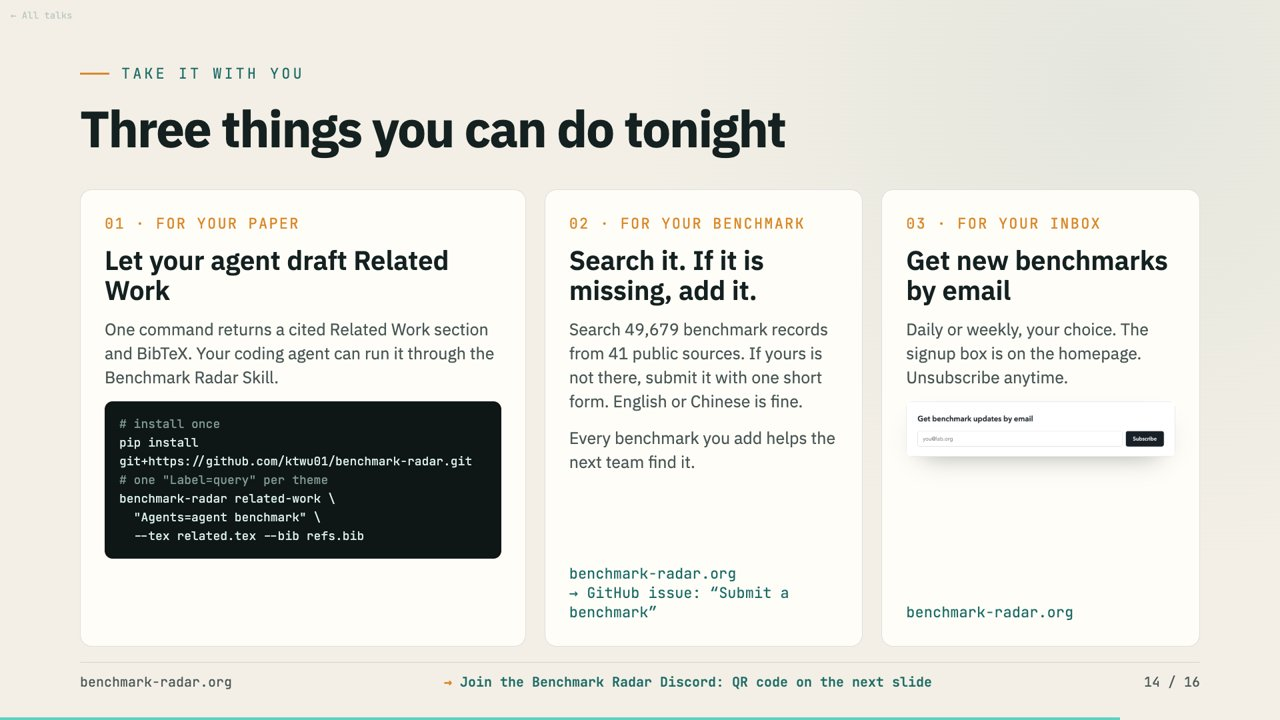
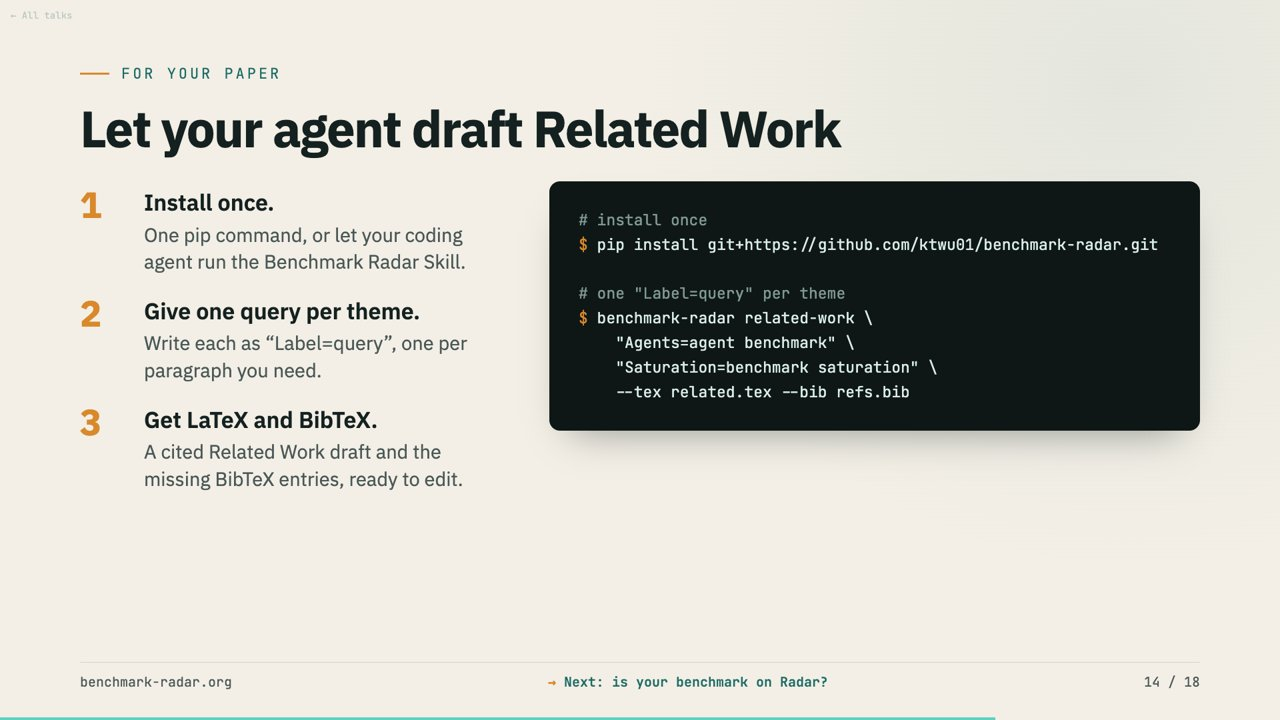
Split the three talk CTAs into one slide each
kw asked for one ask per slide. Slides 14 to 16 now cover the
related-work CLI, search-and-add, and email signup, each with steps on
the left and a code block or screenshot on the right. The search slide
uses a screenshot of the live search for "agent".

Related to #1258

diff --git a/site/talks/cohere-labs-2026/index.html b/site/talks/cohere-labs-2026/index.html
@@ -214,16 +214,12 @@ body.export .progress { display: none; }
 .footer .cta::before { content: '→ '; color: var(--amber); }
 .footer .cta code { font-family: var(--font-mono); background: var(--paper-2); padding: 2px 8px; border-radius: 6px; }
 
-/* TAKE IT WITH YOU: three cards, one action each */
-.cta-grid { display: grid; grid-template-columns: 1.4fr 1fr 1fr; gap: 28px; margin-top: 52px; flex: 1; min-height: 0; }
-.cta-card { background: #fffdf8; border: 1px solid var(--line); border-radius: 18px; padding: 36px; display: flex; flex-direction: column; gap: 18px; }
-.cta-card .k { font-family: var(--font-mono); font-size: 22px; color: var(--amber); letter-spacing: 0.1em; text-transform: uppercase; }
-.cta-card h3 { font-family: var(--font-display); font-size: 40px; font-weight: 600; line-height: 1.12; }
-.cta-card p { font-size: 25px; line-height: 1.45; color: var(--ink-soft); }
-.cta-card pre { font-family: var(--font-mono); font-size: 18px; line-height: 1.55; background: var(--panel); color: #d8ece8; border-radius: 12px; padding: 20px 22px; white-space: pre-wrap; word-break: break-word; }
-.cta-card pre .c { color: #7f9995; }
-.cta-card .url { font-family: var(--font-mono); font-size: 22px; color: var(--teal); margin-top: auto; }
-.cta-card img { display: block; width: 100%; height: auto; max-height: none; border-radius: 10px; box-shadow: 0 18px 40px -24px rgba(20,33,32,0.5); }
+/* ONE ASK PER SLIDE: text left, proof right */
+.ask .steps { margin-top: 8px; align-content: start; }
+.ask .url { font-family: var(--font-mono); font-size: 28px; color: var(--teal); margin-top: 40px; }
+.code { background: var(--panel); color: #d8ece8; border-radius: 16px; padding: 40px 44px; font-family: var(--font-mono); font-size: 23px; line-height: 1.6; white-space: pre-wrap; word-break: break-word; box-shadow: 0 30px 60px -30px rgba(20,33,32,0.45); align-self: start; }
+.code .c { color: #7f9995; }
+.code .p { color: var(--amber); }
 
 /* QR CODES: white tile so phones can scan from a projector */
 .qr-row { display: flex; gap: 36px; }
@@ -504,44 +500,74 @@ body.export .all-talks { display: none; }
   <aside class="notes">Four directions. The audit layer is the one with the most leverage, and it depends on people like June Kim publishing audits. Interop: we would rather feed shared efforts than build a silo.</aside>
 </section>
 
-<!-- === 14. TAKE IT WITH YOU === -->
-<section class="slide" data-title="Take it with you">
+<!-- === 14. ASK 1: RELATED WORK FROM THE CLI === -->
+<section class="slide" data-title="Ask 1: Related Work">
   <div class="frame">
-    <div class="kicker reveal">Take it with you</div>
-    <h2 class="reveal">Three things you can do tonight</h2>
-    <div class="cta-grid">
-      <div class="cta-card reveal">
-        <div class="k">01 · For your paper</div>
-        <h3>Let your agent draft Related Work</h3>
-        <p>One command returns a cited Related Work section and BibTeX. Your coding agent can run it through the Benchmark Radar Skill.</p>
-<pre><span class="c"># install once</span>
-pip install git+https://github.com/ktwu01/benchmark-radar.git
+    <div class="kicker reveal">For your paper</div>
+    <h2 class="reveal">Let your agent draft Related Work</h2>
+    <div class="split ask">
+      <ul class="steps reveal">
+        <li><div><b>Install once.</b>One pip command, or let your coding agent run the Benchmark Radar Skill.</div></li>
+        <li><div><b>Give one query per theme.</b>Write each as “Label=query”, one per paragraph you need.</div></li>
+        <li><div><b>Get LaTeX and BibTeX.</b>A cited Related Work draft and the missing BibTeX entries, ready to edit.</div></li>
+      </ul>
+<pre class="code reveal"><span class="c"># install once</span>
+<span class="p">$</span> pip install git+https://github.com/ktwu01/benchmark-radar.git
+
 <span class="c"># one "Label=query" per theme</span>
-benchmark-radar related-work \
-  "Agents=agent benchmark" \
-  --tex related.tex --bib refs.bib</pre>
-      </div>
-      <div class="cta-card reveal">
-        <div class="k">02 · For your benchmark</div>
-        <h3>Search it. If it is missing, add it.</h3>
-        <p>Search 49,679 benchmark records from 41 public sources. If yours is not there, submit it with one short form. English or Chinese is fine.</p>
-        <p>Every benchmark you add helps the next team find it.</p>
-        <div class="url">benchmark-radar.org<br>→ GitHub issue: “Submit a benchmark”</div>
-      </div>
-      <div class="cta-card reveal">
-        <div class="k">03 · For your inbox</div>
-        <h3>Get new benchmarks by email</h3>
-        <p>Daily or weekly, your choice. The signup box is on the homepage. Unsubscribe anytime.</p>
-        <img src="assets/email-signup.png" alt="Email signup box on the benchmark-radar.org homepage: Get benchmark updates by email, an email field, and a Subscribe button">
+<span class="p">$</span> benchmark-radar related-work \
+    "Agents=agent benchmark" \
+    "Saturation=benchmark saturation" \
+    --tex related.tex --bib refs.bib</pre>
+    </div>
+  </div>
+  <div class="footer"><span>benchmark-radar.org</span><span class="cta">Next: is your benchmark on Radar?</span><span class="pg"></span></div>
+  <aside class="notes">First ask, for anyone writing a paper. One command gives your agent a cited Related Work draft and the BibTeX to go with it. It searches the Radar catalog plus arXiv, Hugging Face Papers, Semantic Scholar, OpenAlex, and Crossref. Read every entry before you keep it.</aside>
+</section>
+
+<!-- === 15. ASK 2: SEARCH AND ADD A BENCHMARK === -->
+<section class="slide" data-title="Ask 2: Add your benchmark">
+  <div class="frame">
+    <div class="kicker reveal">For your benchmark</div>
+    <h2 class="reveal">Search for it. If it is missing, add it.</h2>
+    <div class="split ask">
+      <div class="reveal">
+        <ul class="steps">
+          <li><div><b>Search.</b>49,679 benchmark records from 41 public sources, one search box.</div></li>
+          <li><div><b>Not there?</b>Open the “Submit a benchmark” form on GitHub. English or Chinese is fine.</div></li>
+          <li><div><b>Help the next team.</b>Every benchmark you add is one more that others can find.</div></li>
+        </ul>
         <div class="url">benchmark-radar.org</div>
       </div>
+      <div class="shot reveal"><img src="assets/search-agent.png" alt="Benchmark Radar search for “agent”, showing 1,034 matching benchmark records"></div>
+    </div>
+  </div>
+  <div class="footer"><span>benchmark-radar.org</span><span class="cta">Next: new benchmarks in your inbox</span><span class="pg"></span></div>
+  <aside class="notes">Second ask. Search for the benchmark you built or the one you rely on. If Radar missed it, the form takes two minutes, and the next team will find it.</aside>
+</section>
+
+<!-- === 16. ASK 3: EMAIL === -->
+<section class="slide" data-title="Ask 3: Email">
+  <div class="frame">
+    <div class="kicker reveal">For your inbox</div>
+    <h2 class="reveal">Get new benchmarks by email</h2>
+    <div class="split ask">
+      <div class="reveal">
+        <ul class="steps">
+          <li><div><b>Open the homepage.</b>The signup box sits next to the search results.</div></li>
+          <li><div><b>Pick daily or weekly.</b>Daily brings the latest each day; weekly arrives every Monday.</div></li>
+          <li><div><b>Leave anytime.</b>Every email has an unsubscribe link.</div></li>
+        </ul>
+        <div class="url">benchmark-radar.org</div>
+      </div>
+      <div class="shot reveal" style="align-self:center"><img src="assets/email-signup.png" alt="Email signup box on the benchmark-radar.org homepage: Get benchmark updates by email, an email field, and a Subscribe button"></div>
     </div>
   </div>
   <div class="footer"><span>benchmark-radar.org</span><span class="cta">Join the Benchmark Radar Discord: QR code on the next slide</span><span class="pg"></span></div>
-  <aside class="notes">Three asks that help the people in the room, not just the project. One: if you are writing a paper, the related-work command gives your agent a cited draft and BibTeX in one run. Two: search for your own benchmark; if Radar missed it, the form takes two minutes, and the next team will find it. Three: the email brings new benchmarks to you, daily or weekly.</aside>
+  <aside class="notes">Third ask. If you want to keep up without checking the site, the email brings new benchmarks to you, daily or weekly.</aside>
 </section>
 
-<!-- === 15. GET INVOLVED === -->
+<!-- === 17. GET INVOLVED === -->
 <section class="slide" data-title="Get involved">
   <div class="frame">
     <div class="kicker reveal">Join in</div>
@@ -564,7 +590,7 @@ benchmark-radar related-work \
   <aside class="notes">Concrete asks. The audit ask is new: if your team rechecks a benchmark, publish it and Radar will link it.</aside>
 </section>
 
-<!-- === 16. Q&A + ACKNOWLEDGMENT === -->
+<!-- === 18. Q&A + ACKNOWLEDGMENT === -->
 <section class="slide dark" data-title="Questions">
   <div class="frame">
     <div class="kicker reveal">Q&amp;A</div>

diff --git a/site/talks/cohere-labs-2026/slides.md b/site/talks/cohere-labs-2026/slides.md
@@ -189,21 +189,47 @@ Cohere Labs Open Science Community · Koutian Wu, UT Austin · benchmark-radar.o
 
 ---
 
-## 14. Take it with you
+## 14. Let your agent draft Related Work
 
-*Three things you can do tonight*
+*For your paper*
 
-- For your paper: let your agent draft Related Work. One command returns a cited Related Work section and BibTeX. Your coding agent can run it through the Benchmark Radar Skill.
-  `pip install git+https://github.com/ktwu01/benchmark-radar.git`
-  `benchmark-radar related-work "Agents=agent benchmark" --tex related.tex --bib refs.bib`
-- For your benchmark: search it, and if it is missing, add it. Search 49,679 benchmark records from 41 public sources. If yours is not there, submit it with one short form (GitHub issue "Submit a benchmark"). English or Chinese is fine. Every benchmark you add helps the next team find it.
-- For your inbox: get new benchmarks by email, daily or weekly. The signup box is on the benchmark-radar.org homepage (screenshot on the slide). Unsubscribe anytime.
+- Install once. One pip command, or let your coding agent run the Benchmark Radar Skill.
+- Give one query per theme. Write each as "Label=query", one per paragraph you need.
+- Get LaTeX and BibTeX. A cited Related Work draft and the missing BibTeX entries, ready to edit.
+- `pip install git+https://github.com/ktwu01/benchmark-radar.git`
+- `benchmark-radar related-work "Agents=agent benchmark" "Saturation=benchmark saturation" --tex related.tex --bib refs.bib`
 
-> **Speaker notes:** Three asks that help the people in the room, not just the project. One: if you are writing a paper, the related-work command gives your agent a cited draft and BibTeX in one run. Two: search for your own benchmark; if Radar missed it, the form takes two minutes, and the next team will find it. Three: the email brings new benchmarks to you, daily or weekly.
+> **Speaker notes:** First ask, for anyone writing a paper. One command gives your agent a cited Related Work draft and the BibTeX to go with it. It searches the Radar catalog plus arXiv, Hugging Face Papers, Semantic Scholar, OpenAlex, and Crossref. Read every entry before you keep it.
 
 ---
 
-## 15. Get involved
+## 15. Search for it. If it is missing, add it.
+
+*For your benchmark*
+
+- Search. 49,679 benchmark records from 41 public sources, one search box.
+- Not there? Open the "Submit a benchmark" form on GitHub. English or Chinese is fine.
+- Help the next team. Every benchmark you add is one more that others can find.
+- benchmark-radar.org (screenshot: search for "agent")
+
+> **Speaker notes:** Second ask. Search for the benchmark you built or the one you rely on. If Radar missed it, the form takes two minutes, and the next team will find it.
+
+---
+
+## 16. Get new benchmarks by email
+
+*For your inbox*
+
+- Open the homepage. The signup box sits next to the search results.
+- Pick daily or weekly. Daily brings the latest each day; weekly arrives every Monday.
+- Leave anytime. Every email has an unsubscribe link.
+- benchmark-radar.org (screenshot: homepage email signup box)
+
+> **Speaker notes:** Third ask. If you want to keep up without checking the site, the email brings new benchmarks to you, daily or weekly.
+
+---
+
+## 17. Get involved
 
 *Join in*
 
@@ -218,7 +244,7 @@ Cohere Labs Open Science Community · Koutian Wu, UT Austin · benchmark-radar.o
 
 ---
 
-## 16. Questions
+## 18. Questions
 
 *Q&A*
 
